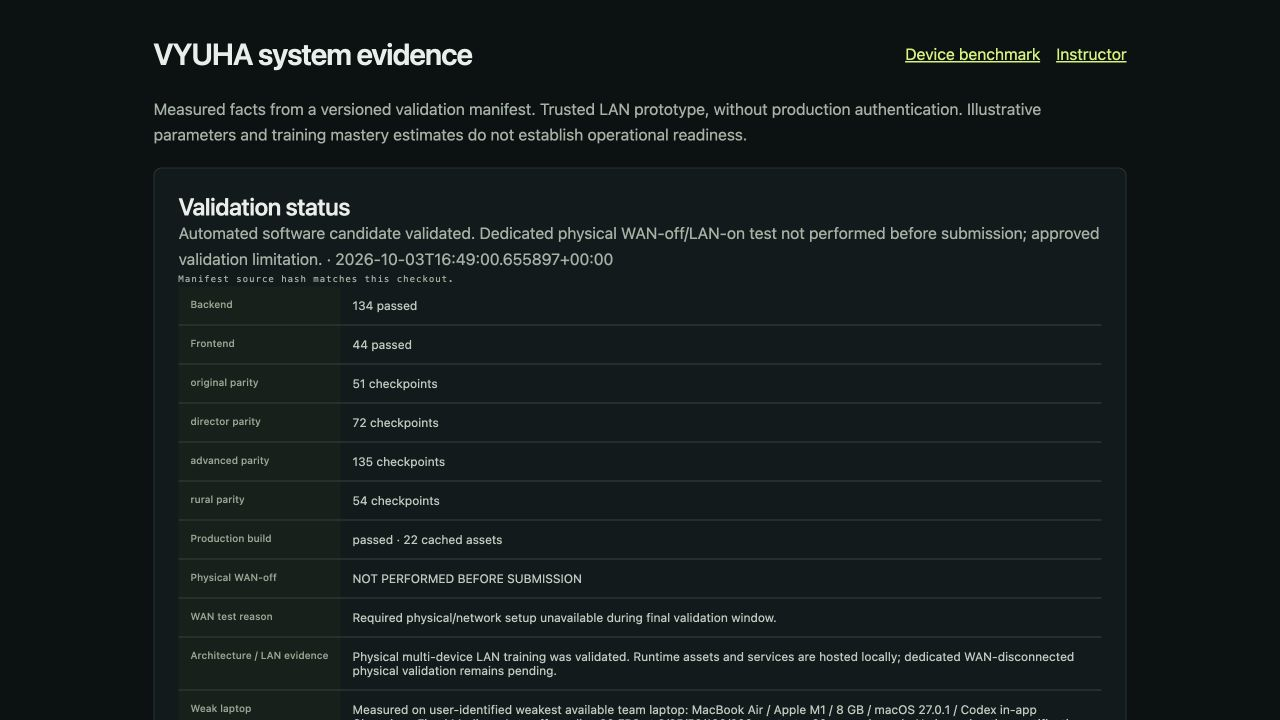
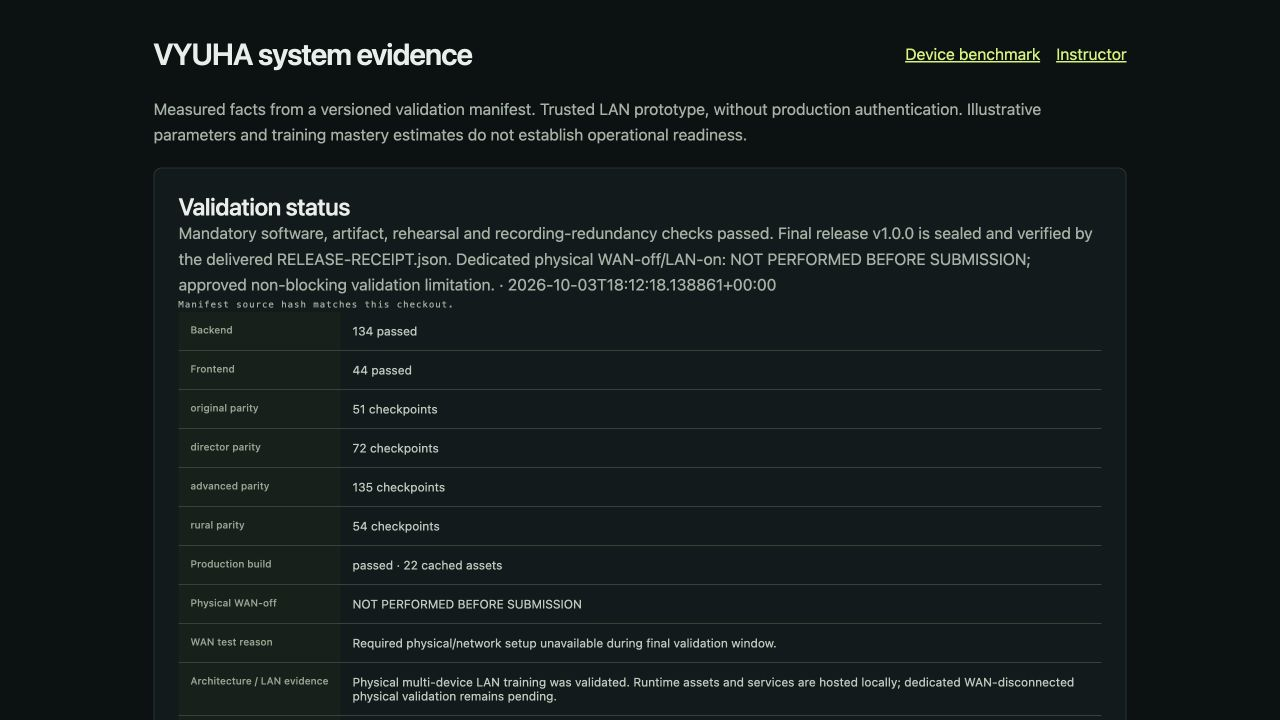
Seal validated v1.0.0 acceptance with confirmed Android recording copy

Changed region(s): [[0.125, 0.3056, 0.875, 1.0], [0.125, 0.9778, 0.2188, 1.0]]

diff --git a/docs/FINAL-VALIDATION.md b/docs/FINAL-VALIDATION.md
@@ -1,6 +1,6 @@
 # VYUHA final submission validation
 
-Team WhiteList&0, registered Team ID 185350, PS SIH26247, Software. College/member names are omitted at the user's explicit request. Software and submission artifacts have passed their checks. A required second recording copy remains pending user confirmation; no final tag or READY declaration is made yet.
+Team WhiteList&0, registered Team ID 185350, PS SIH26247, Software. College/member names are omitted at the user's explicit request. Software and submission artifacts have passed their checks. The user confirmed that the final backup is saved on a separate Android device and plays from Downloads. Exact immutable tag, private remote and final archive checks are recorded in the delivered RELEASE-RECEIPT.json.
 
 ## Accepted validation exception
 
@@ -16,7 +16,7 @@ Existing evidence includes the Mac officer/server and Android/Chrome trainee, re
 
 ## Release checks
 
-Implementation freeze: `0f17830c7fd821f105091400d6ac146e17fbf145`, based on `b974b6fca32fcc2a58d2c3967d29508a11cea8a2`. Release branch: `release/v1.0.0`. Documentation/media commits preserve the tested implementation source hash; `v1.0.0` will identify the final exact release commit after remaining mandatory acceptance closes.
+Implementation freeze: `0f17830c7fd821f105091400d6ac146e17fbf145`, based on `b974b6fca32fcc2a58d2c3967d29508a11cea8a2`. Release branch: `release/v1.0.0`. Documentation/media commits preserve the tested implementation source hash; `v1.0.0` identifies the final exact release commit. The delivery receipt resolves its numeric commit and verifies remote identity after sealing; no circular self-hash is embedded in the tagged documentation.
 
 | Check | Actual result and scope |
 |---|---|
@@ -29,8 +29,8 @@ Implementation freeze: `0f17830c7fd821f105091400d6ac146e17fbf145`, based on `b97
 | Official presentation | **Six-slide PDF**, including title, official2026 template headings/pointers/branding retained; Software, Team185350, WhiteList&0. College/member names omitted at user request. All6 PPTX and6 PDF page renders visually reviewed; native tables and package geometry/import validation passed. |
 | Claims | Canonical feature manifest used by README/deck; simulated learner results labeled, no human efficacy, validated military doctrine, trusted telemetry, Internet-disconnected physical or operational-readiness claims. |
 | Clean source deployment | Exact Git implementation blobs exported with documented exclusions, extracted to a new temp directory, fresh venv/locked pip install/npm ci/build through `scripts/start-local.sh`, started local server and repeated freshDB HTTP walk. Same Mac, not secondOS. Setup used Internet. |
-| Recording redundancy | **PENDING**: actual saved-file/playback confirmation on Android/USB. The reviewed backup file is available for copying; a second local directory does not count. |
-| Immutable tag / remote | Pending remaining recording-copy acceptance. Main, v0.1.0 and prior stage branches are preserved. |
+| Recording redundancy | **CONFIRMED by user**: final120second backup saved on separate Android/Chrome and plays from Downloads. Filename and served-file hash recorded in `qa-stage7/media.json`; no independent phone hash claim. |
+| Immutable tag / remote | `v1.0.0` on `release/v1.0.0`; exact target/private remote verification in delivered `RELEASE-RECEIPT.json`. Main, v0.1.0 and prior stage branches are preserved. |
 
 Early ending projects score penalties to the75-second horizon. The captured demo's two asset penalties are projections, not observed later impacts. Ghost keeps the observed interval separate. In primary DEMO-01 footage the radar jam follows the deliberate mistake; backup REH-03 applies it first. Narration and captions reflect that difference.
 
@@ -49,4 +49,4 @@ Dedicated physical WAN-off/LAN-on validation was not completed before submission
 - M1/Android measurements lasted 20 seconds per count. Whole-browser memory and sustained-load certification were not measured. Six-client HTTP results are simulated clients on loopback.
 - Crew roles, real hardware feeds, VR, rain modeling and formal field evaluation remain deferred.
 
-Current submission status: **NOT READY — second recording copy pending**. The dedicated physical WAN exception is disclosed and does not block release; no other mandatory check is waived. Portal upload is not performed. After recording redundancy is confirmed, seal the immutable tag, verify private remote references and refresh final source/submission checksums.
+Submission package status: **READY after seal verification in RELEASE-RECEIPT.json**. The dedicated physical WAN exception is disclosed and does not block release; no other mandatory check is waived. Portal upload has not been performed. Team delivery responsibilities and authenticated portal deadline confirmation remain presentation/submission actions, not fabricated validation results.

diff --git a/docs/DEMO-RUNBOOK.md b/docs/DEMO-RUNBOOK.md
@@ -51,7 +51,7 @@ Capture only application content at fixed dimensions. Exclude browser address ba
 
 Use the exact validated release commit. Include source, tests, dependency locks, startup scripts, current documentation and illustrative examples. Exclude .venv, node_modules, generated caches, local databases, personal QA records, HMAC keys, environment overrides and OS metadata. Exclude the obsolete prototype PPT from the final submission package. Extract and test startup in a fresh environment before declaring the archive ready.
 
-Package PPTX plus the required six-slide PDF, primary video, minimally edited backup recording, final validation report, live script and Q&A. A second recording copy on another device/USB remains a physical acceptance item until the user confirms it.
+Package PPTX plus the required six-slide PDF, primary video, minimally edited backup recording, final validation report, live script and Q&A. The user confirmed the final backup is saved on a separate Android device and plays from Downloads. The served backup hash and confirmation scope are recorded in qa-stage7/media.json.
 
 Fallbacks: Tactical 2D for rendering failure, one-laptop local mode for LAN failure, verified backup recording for complete live-system failure.
 

diff --git a/README.md b/README.md
@@ -40,6 +40,8 @@ Measured scope: 18 historical completions retained; six simulated concurrent cli
 
 ## Demonstrate and verify
 
+Release branch: `release/v1.0.0`; immutable tag: `v1.0.0`. Official [six-slide PDF](docs/submission/VYUHA-SIH26247-Team185350.pdf), [primary video](docs/submission/VYUHA-primary-demo-final.mp4) and [backup video](docs/submission/VYUHA-backup-demo-final.mp4) are included. Primary170s uses local synthetic narration; backup120s uses chronological actual browser captures with held frames. Separate Android saved-file playback was confirmed by the user. Exact release/remote/source archive receipt accompanies the submission package.
+
 Use the fixed [Night Decoy Strike preset](examples/demo-night-decoy-strike.json), [demo runbook](docs/DEMO-RUNBOOK.md), [judge Q&A](docs/JUDGE-QA.md) and [claim audit](docs/CLAIM-AUDIT.md). An authored scenario is distinct from a Director-generated drill; both use the ordinary scoring pipeline. Early ending visibly preserves the 75-second scoring projection.
 
 ```sh
